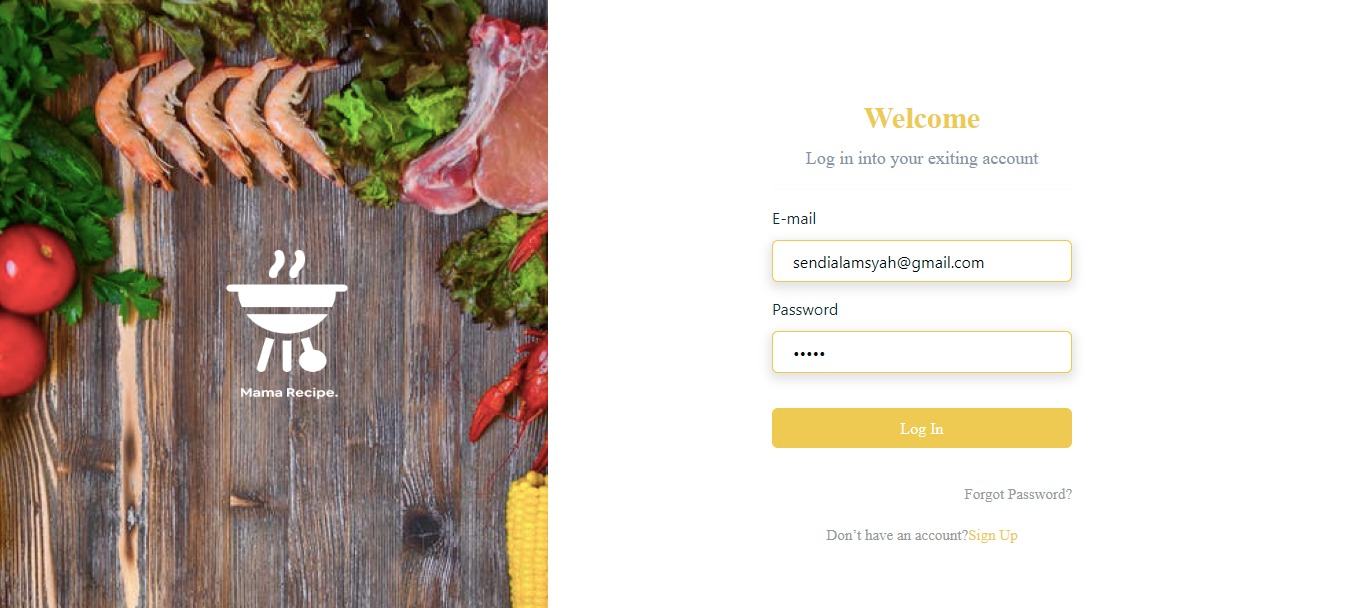
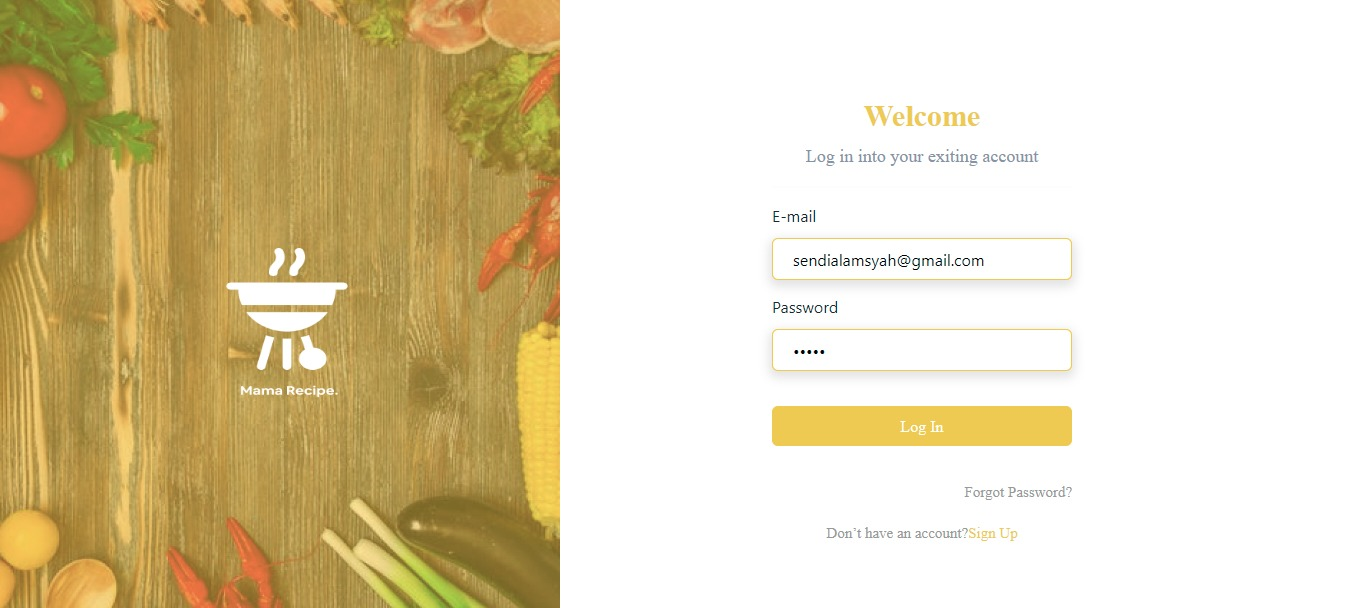
change screenshoot

diff --git a/styles/Auth.register.module.css b/styles/Auth.register.module.css
@@ -1,16 +1,19 @@
 .container .bgImage {
-    /* border: 1px solid red; */
-    height: 800px;
-    overflow: hidden;
-    /* background-size: cover;
-    background: #EFC81A;
-    background-image: linear-gradient(#EFC81A, #FFF) */
-  }
-  .background {
-    width: 100%;
-    height: 100%;
-    object-fit: cover;
-  }
+  /* border: 1px solid red; */
+  height: 800px;
+  background-position: center;
+  /* background-size: cover;
+  background: #EFC81A; */
+  background-repeat: no-repeat;
+  background-size: cover;
+  background-image: linear-gradient(#efc81a80 100%, #fff), url('../public/assets/image\ 15.png');
+  
+}
+.container .bgImage {
+  display: flex;
+  align-items: center;
+  justify-content: center;
+}
   .icon {
     position: absolute;
     top: 300px;

diff --git a/styles/Auth.module.css b/styles/Auth.module.css
@@ -1,15 +1,18 @@
 .container .bgImage {
   /* border: 1px solid red; */
   height: 610px;
-  overflow: hidden;
+  background-position: center;
   /* background-size: cover;
-  background: #EFC81A;
-  background-image: linear-gradient(#EFC81A, #FFF) */
+  background: #EFC81A; */
+  background-repeat: no-repeat;
+  background-size: cover;
+  background-image: linear-gradient(#efc81a80 100%, #fff), url('../public/assets/image\ 15.png');
+  
 }
-.background {
-  width: 100%;
-  height: 100%;
-  object-fit: cover;
+.container .bgImage {
+  display: flex;
+  align-items: center;
+  justify-content: center;
 }
 .icon {
   position: absolute;

diff --git a/pages/auth/Login.js b/pages/auth/Login.js
@@ -65,13 +65,13 @@ const Login = () => {
     <>
       <div className={`row ${styles.container}`}>
         <div className={`col-5 ${styles.bgImage}`}>
-          <div>
+          {/* <div>
             <img
               src="/assets/image 15.png"
               alt="img"
               className={styles.background}
             />
-          </div>
+          </div> */}
         </div>
         <div className={styles.icon}>
         <img

diff --git a/pages/auth/Register.js b/pages/auth/Register.js
@@ -38,9 +38,6 @@ const Register = () => {
     <>
       <div className={`row ${styles.container}`}>
         <div className={`col-5 ${styles.bgImage}`}>
-          <div>
-            <img src='/assets/image 15.png' alt='img' className={styles.background}/>
-          </div>
         </div>
         <div className={styles.icon}>
         <img
